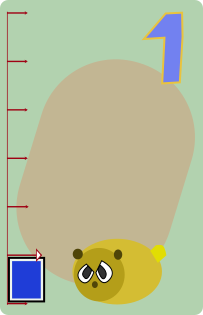
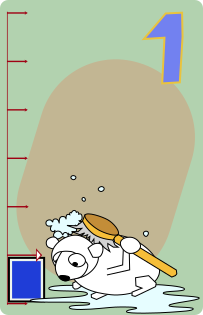
new bathing hamster (e); and random player names

Changed region(s): [[0.1478, 0.6286, 1.0, 1.0], [0.4729, 0.5714, 0.532, 0.6286], [0.3251, 0.5429, 0.3842, 0.5714]]

diff --git a/js/app/GameBox.js b/js/app/GameBox.js
@@ -105,15 +105,15 @@ require(['Player'], function (Player) {
         return aCards;
     };
 
-    var shuffle = function (aCards) {
-        var i, n, aShuffledCards = [];
+    var shuffle = function (aThings) {
+        var i, n, aShuffledThings = [];
 
-        while (aCards.length > 0) {
-            n = Math.floor(Math.random() * aCards.length);
-            aShuffledCards.push(aCards.splice(n, 1)[0]);
+        while (aThings.length > 0) {
+            n = Math.floor(Math.random() * aThings.length);
+            aShuffledThings.push(aThings.splice(n, 1)[0]);
         }
 
-        return aShuffledCards;
+        return aShuffledThings;
     };
 
     var distribute = function (aCards, nNumPlayers) {
@@ -154,12 +154,26 @@ require(['Player'], function (Player) {
         var i, nPlayer;
 
         this.players = [];
+
+        var getRandomPlayerName = function (nPlayer) {
+            
+            var aPlayerNames = [ 'cat', 'dog', 'cow', 'pig', 'horse', 'skunk', 'ferret', 'duck' ];
+            
+            var aShuffledPlayerNames = shuffle(aPlayerNames);
+            
+            if (nPlayer >= 0 && nPlayer < aShuffledPlayerNames.length) {
+                return aShuffledPlayerNames[nPlayer];
+            }
+            
+            return 'Player' + nPlayer;
+            
+        };
         
         for (i = 0; i < nNumPlayers; i++) {
             this.players.push(new Player());
 
             nPlayer = i + 1;
-            this.players[i].setName('Player ' + nPlayer);
+            this.players[i].setName(getRandomPlayerName(nPlayer));
         }
 
         GameBox.prototype.makeView = function () {
